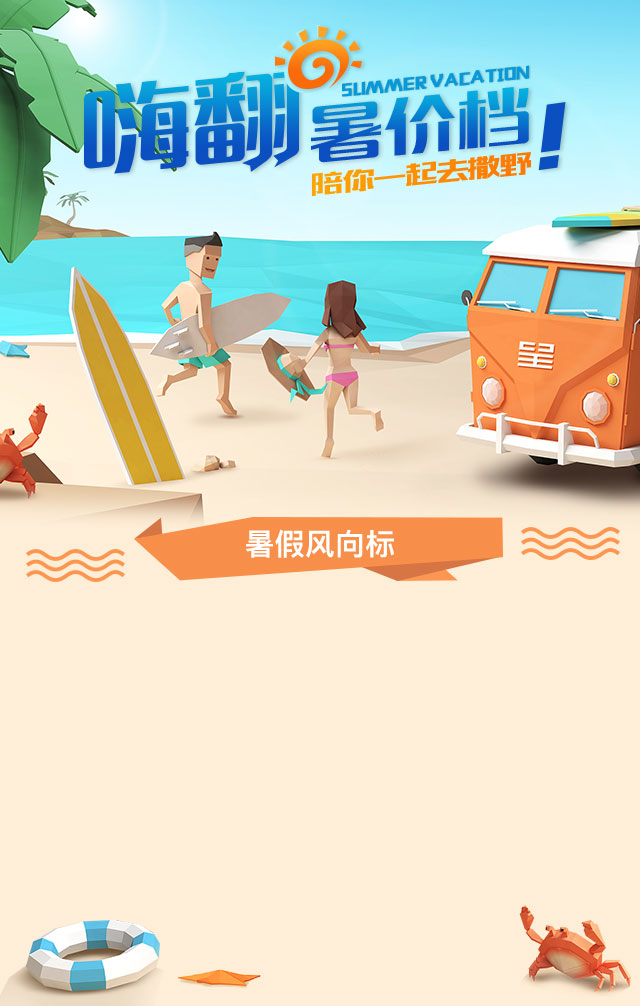
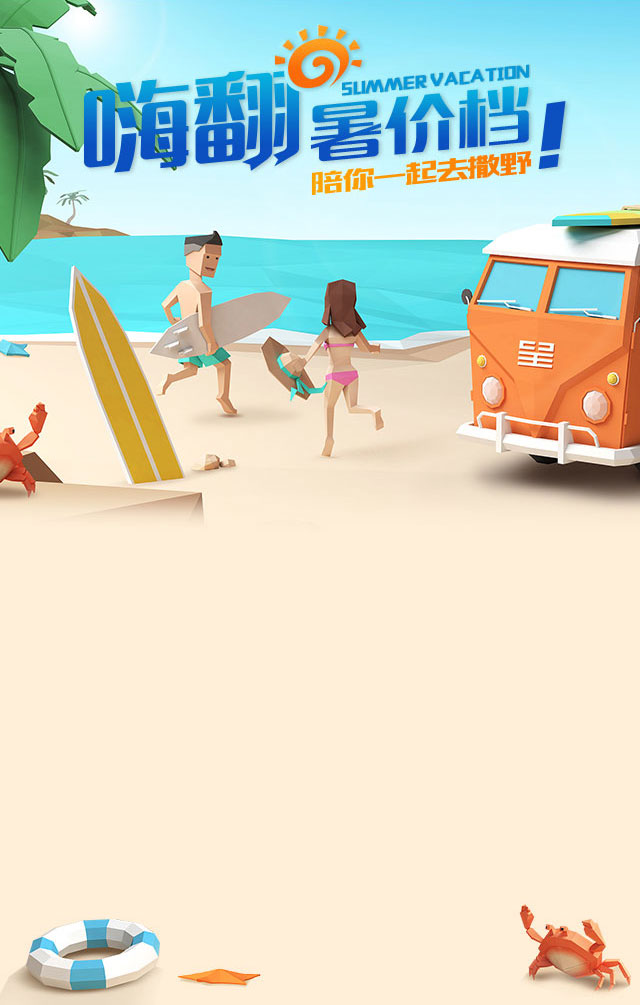
summer

diff --git a/summer_vacation/index.html b/summer_vacation/index.html
@@ -16,8 +16,12 @@
 </head>
 <body>
 <div class="masterplate-wrapper" style="background:url(images/bg.jpg) #feeed7 no-repeat;background-size:100% auto">
-	<header class="masterplate-header"></header>
-	<div class="masterplate-title"></div>
+	<header class="masterplate-header">
+		<img src="images/head.png" alt="">
+	</header>
+	<div class="masterplate-title">
+		<img src="images/title.png" alt="">
+	</div>
 	<div class="masterplate-activity-list">
 		<div class="item">
 			<a href="#"><img src="images/activity1.jpg" alt=""></a>
@@ -30,8 +34,16 @@
 		</div>
 	</div>
 </div>
-
 <!-- script begin -->
+<script src="scripts/jquery-3.1.1.min.js"></script>
+<script>
+	$(function(){
+		var titleHeight=$(".masterplate-title").height();
+		var titleImgHeight=$(".masterplate-title img").height();
+		var marginTopHeight=(titleHeight-titleImgHeight)/2;
+		$(".masterplate-title img").css('margin-top',marginTopHeight)
+	});
+</script>
 <!-- script end -->
 </body>
 </html>

diff --git a/summer_vacation/styles/index.css b/summer_vacation/styles/index.css
@@ -124,12 +124,19 @@ html {
 .masterplate-header {
   width: 100%;
   height: 40vh;
+  overflow: hidden;
   font-size: 0; }
+  .masterplate-header img {
+    width: 100%;
+    max-height: 40vh; }
 
 .masterplate-title {
-  width: 100%;
+  margin: 0 auto;
+  width: 94%;
   height: 15vh;
   font-size: 0; }
+  .masterplate-title img {
+    width: 100%; }
 
 .masterplate-activity-list {
   margin: 0 auto;

diff --git a/summer_vacation/sass/_index.scss b/summer_vacation/sass/_index.scss
@@ -11,12 +11,21 @@
 .masterplate-header{
 	width:100%;
 	height:40vh;
+	overflow:hidden;
 	font-size:0;
+	img{
+		width:100%;
+		max-height: 40vh;
+	}
 }
 .masterplate-title{
-	width:100%;
+	margin:0 auto;
+	width:94%;
 	height:15vh;
 	font-size:0;
+	img{
+		width:100%;
+	}
 }
 .masterplate-activity-list{
 	margin:0 auto;
